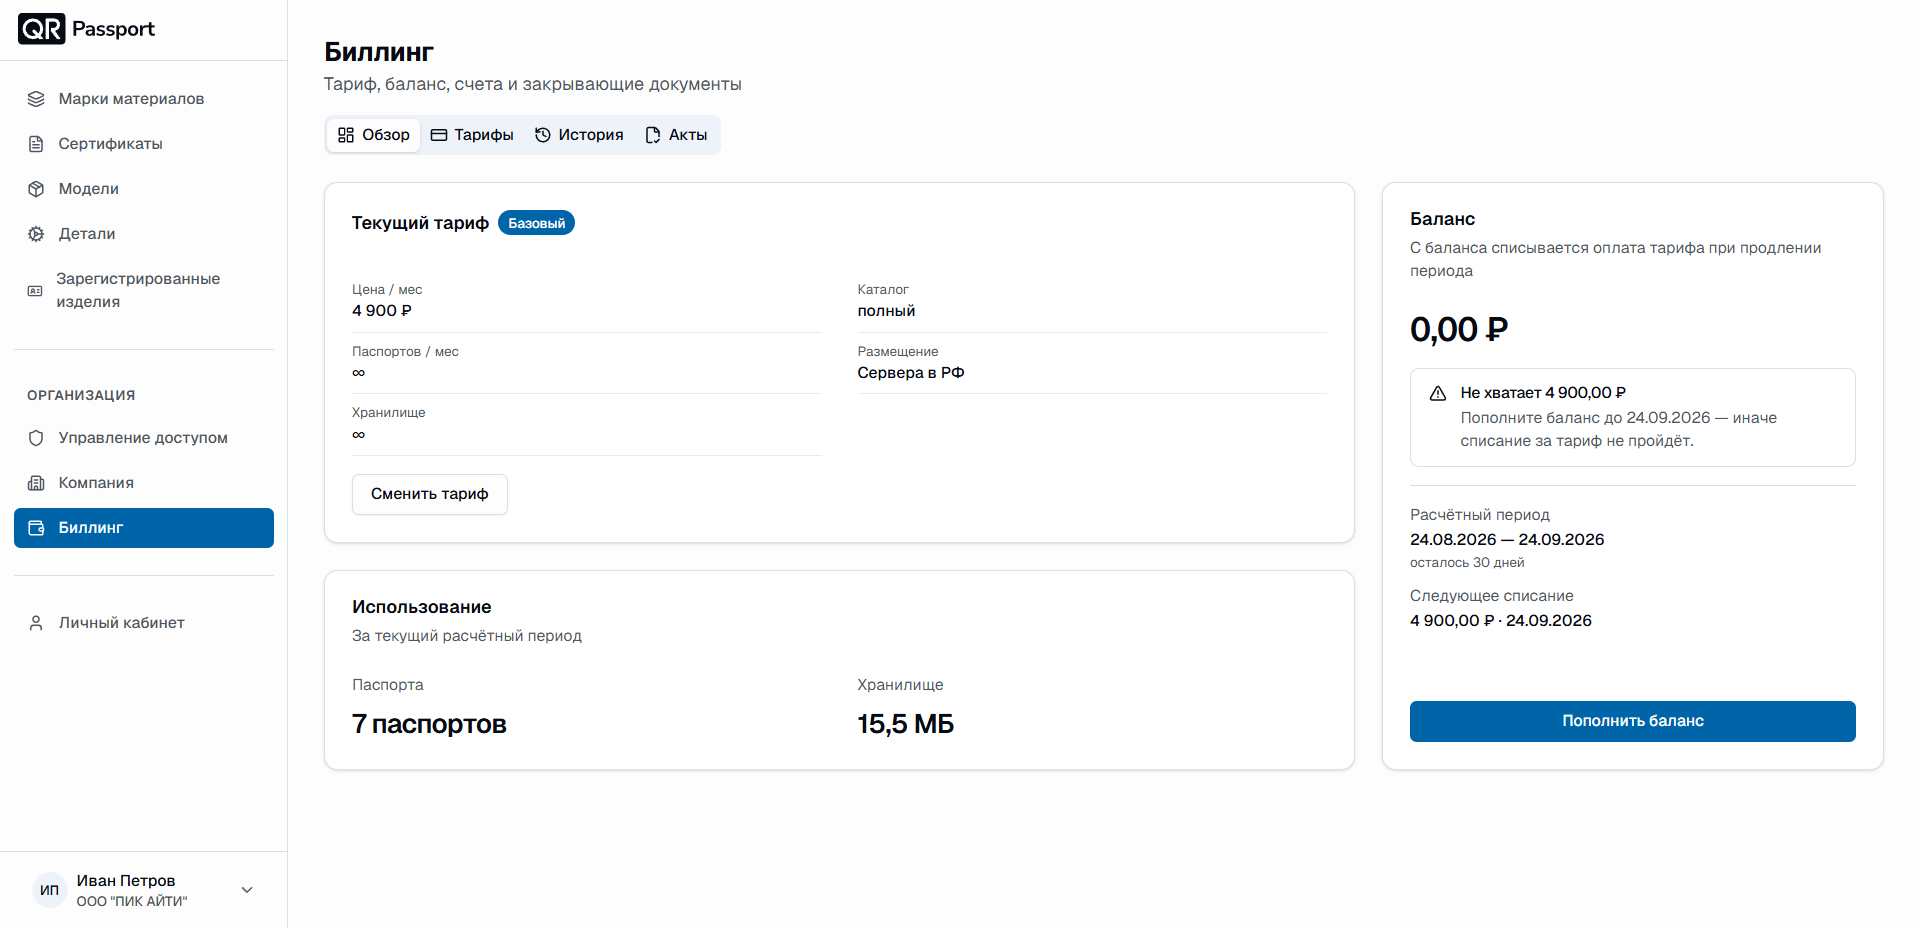
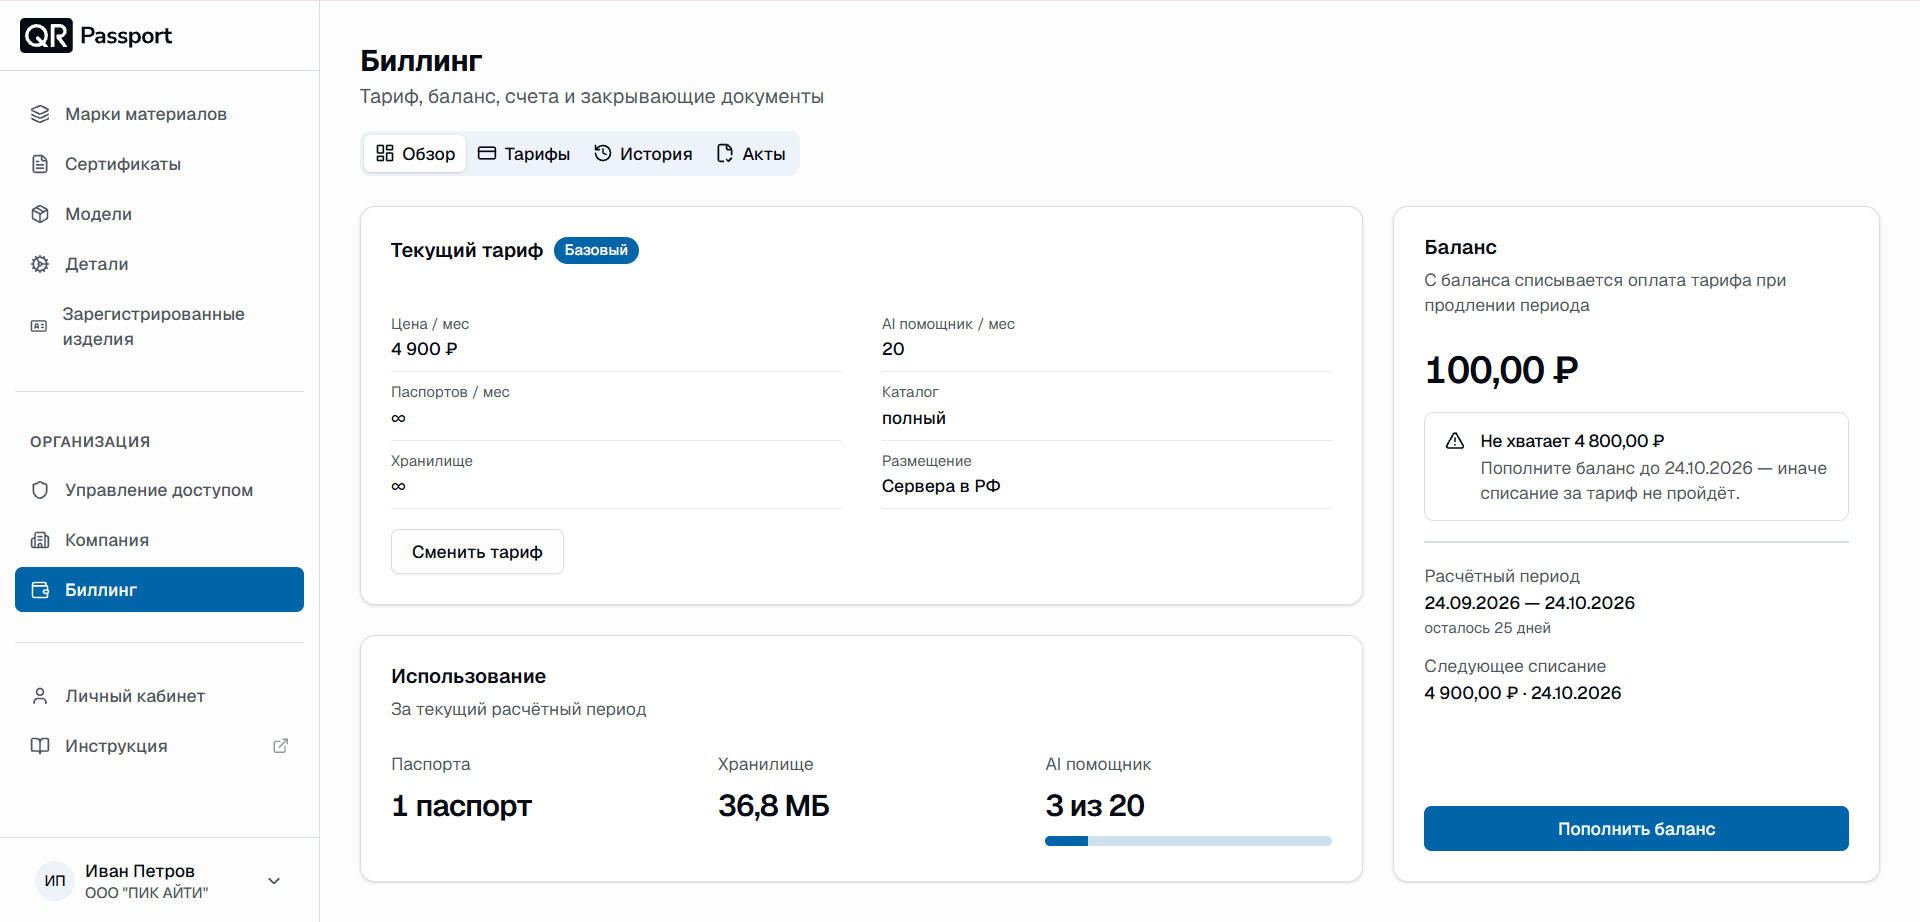
docs: октябрь 2026 – AI-помощник заполнения шаблона, лимиты и тарифы (Биллинг, Обновления, Шаблоны)

diff --git a/docs/ru/equipment/models/templates.md b/docs/ru/equipment/models/templates.md
@@ -58,6 +58,41 @@
 
 {% endnote %}
 
+### Заполнение с помощью AI-помощника
+
+Если у вас на руках уже есть готовый технический паспорт (PDF, DOCX, JPG или PNG), шаблон не нужно заполнять с нуля: AI-помощник распознает данные из документа и предложит значения для полей и таблиц шаблона.
+
+1. Нажмите кнопку **«AI помощник»** в правом верхнем углу страницы шаблона.
+
+   ![Кнопка «AI помощник» на странице шаблона](../../_images/ai-helper-button.png)
+
+2. В открывшемся окне перетащите файл паспорта в рамку или нажмите **«выберите»**. Размер файла – до 25 МБ.
+
+   ![Окно AI-помощника с областью загрузки файла](../../_images/ai-helper-upload.png)
+
+3. Дождитесь обработки: документ разбирают две ИИ-модели, обычно это занимает 1–4 минуты. Окно можно закрыть – результат сохранится, а прогресс виден по индикатору **«Извлечено X из Y блоков»**.
+4. В окне **«Сверка данных из документа»** проверьте распознанные значения. Блоки разложены по вкладкам:
+   - **«Требуют решения»** – значения найдены, но их стоит проверить;
+   - **«Совпадает»** – данные полностью совпали с полями шаблона;
+   - **«Не найдено»** – по этим блокам в документе ничего не нашлось;
+   - **«Все»** – все извлечённые блоки.
+
+   ![Сверка распознанных данных перед переносом в шаблон](../../_images/ai-helper-review.png)
+
+5. Отметьте галочками блоки, которые нужно перенести в шаблон. Значения можно будет отредактировать после переноса.
+6. Нажмите **«Перенести в шаблон»** – отмеченные значения встанут в черновик шаблона. Если результат распознавания не нужен – нажмите **«Отклонить результат»**.
+7. Проверьте перенесённые значения, дозаполните недостающие поля и сохраните шаблон.
+
+{% note warning %}
+
+**Лимит – 20 распознаваний паспортов в месяц.** Счётчик использованных распознаваний виден в окне помощника («Использовано X из 20»). Лимита достаточно, чтобы внести основную часть оборудования; для остального воспользуйтесь **«Клонированием моделей»**: копия готовой модели сохраняет шаблон со всеми полями, и править нужно только отличия.
+
+AI-помощник доступен в тарифах **«Базовый»** и **«Энтерпрайз»**. В тарифе **«Бесплатный»** помощника нет – шаблон заполняется вручную.
+
+{% endnote %}
+
+### Заполнение вручную
+
 1. Заполните обязательные поля, отмеченные звёздочкой. После заполнения блока нажимайте **Готово**.
 2. В табличных разделах (химический состав, механические свойства, испытания, комплектность) добавляйте строки кнопкой **+ строку** справа.
 3. Для химического состава и механических свойств выберите в строке созданную **деталь** и **сертификат** – значения подтянутся из них автоматически, вручную переписывать ничего не нужно.

diff --git a/docs/ru/organization/billing.md b/docs/ru/organization/billing.md
@@ -28,6 +28,7 @@
 В карточке тарифа отображаются:
 
 - **Цена / мес** – стоимость тарифа в месяц;
+- **AI помощник / мес** – лимит распознаваний паспортов помощником в месяц (например, 20). Если значение 0 – помощник в тарифе недоступен;
 - **Паспортов / мес** – лимит выпуска паспортов (∞ – без ограничений);
 - **Хранилище** – лимит объёма файлов (∞ – без ограничений);
 - **Каталог** – demo или полный;
@@ -43,14 +44,15 @@
 - **Расчётный период** – даты начала и окончания периода и сколько дней осталось;
 - **Следующее списание** – сумма и дата оплаты тарифа.
 
-Если средств недостаточно, выводится предупреждение: *«Не хватает 4 900,00 ₽. Пополните баланс до 24.09.2026 – иначе списание за тариф не пройдёт»*.
+Если средств недостаточно, выводится предупреждение: *«Не хватает 4 800,00 ₽. Пополните баланс до 24.10.2026 – иначе списание за тариф не пройдёт»*.
 
 ### Использование
 
 Блок «Использование» показывает потребление за текущий расчётный период:
 
 - **Паспорта** – сколько паспортов создано;
-- **Хранилище** – суммарный объём загруженных файлов.
+- **Хранилище** – суммарный объём загруженных файлов;
+- **AI помощник** – сколько распознаваний использовано из месячного лимита (например, **3 из 20**); прогресс-бар показывает остаток. Лимит обнуляется с началом нового расчётного периода.
 
 ### Пополнение баланса
 
@@ -67,12 +69,12 @@
 
 ![Вкладка «Тарифы»](../_images/tariffs.png)
 
-
 | | Бесплатный | Базовый | Энтерпрайз |
 |---|---|---|---|
 | **Цена** | 0 ₽/мес | 4 900 ₽/мес | по договору |
 | **Паспортов / мес** | 5 | ∞ | по контракту |
 | **Хранилище** | 250 МБ | ∞ | по контракту |
+| **AI помощник / мес** | – | 20 | по контракту |
 | **Каталог** | demo | полный | полный |
 | **Размещение** | Серверы в РФ | Серверы в РФ | on-premise (Docker) |
 

diff --git a/docs/ru/updates.md b/docs/ru/updates.md
@@ -6,6 +6,18 @@
 
 Здесь рассказываем, что нового появляется в QR-Passport и что мы улучшили. Новые записи – сверху.
 
+### Октябрь 2026
+
+{% cut "_AI-помощник для заполнения шаблона_" %}
+
+**Новое.** На странице шаблона появилась кнопка **«AI помощник»** — загрузите готовый технический паспорт изделия (PDF, DOCX, JPG или PNG до 25 МБ), и ИИ распознает данные и предложит значения для полей и таблиц шаблона в QR-Passport. Результат можно проверить по вкладкам, отредактировать и перенести в шаблон — заполнять с нуля шаблон не нужно.
+
+Текущий лимит и использованное количество распознаваний видны в разделе **«Биллинг → Обзор»** (строка «AI помощник / мес» в карточке тарифа и счётчик в блоке «Использование»). Лимит обнуляется с началом каждого нового расчётного периода.
+
+![Окно AI-помощника со сверкой распознанных данных](./_images/updates_5.png)
+
+{% endcut %}
+
 ### Сентябрь 2026
 
 {% cut "_Шаблон паспорта для другого оборудования_" %}
